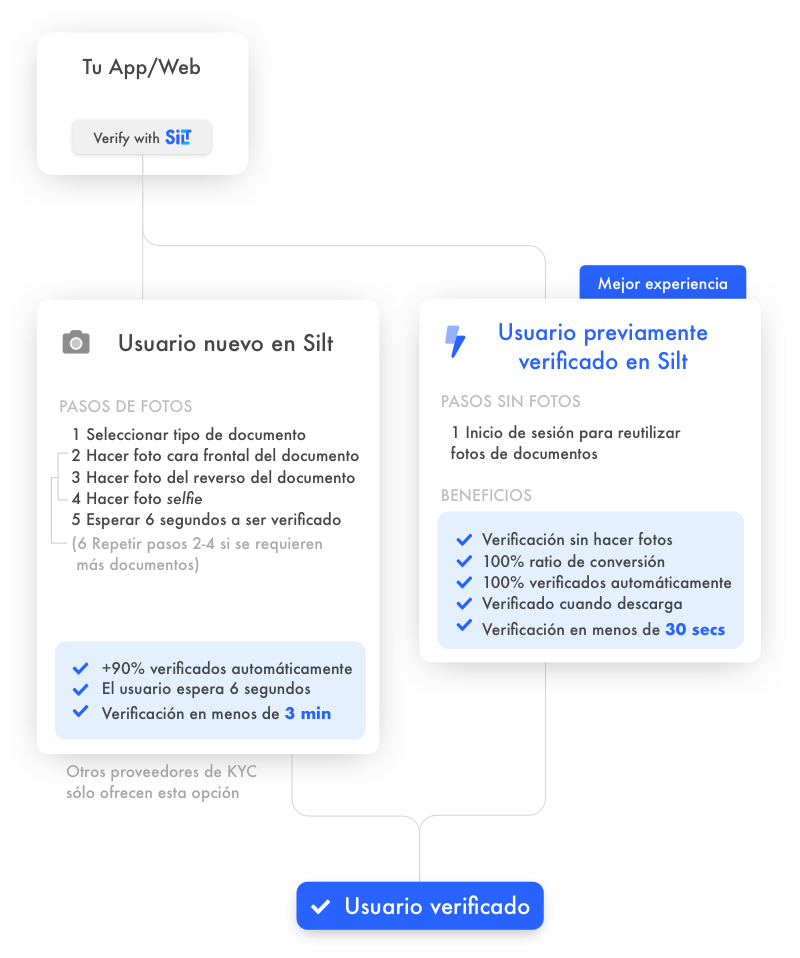
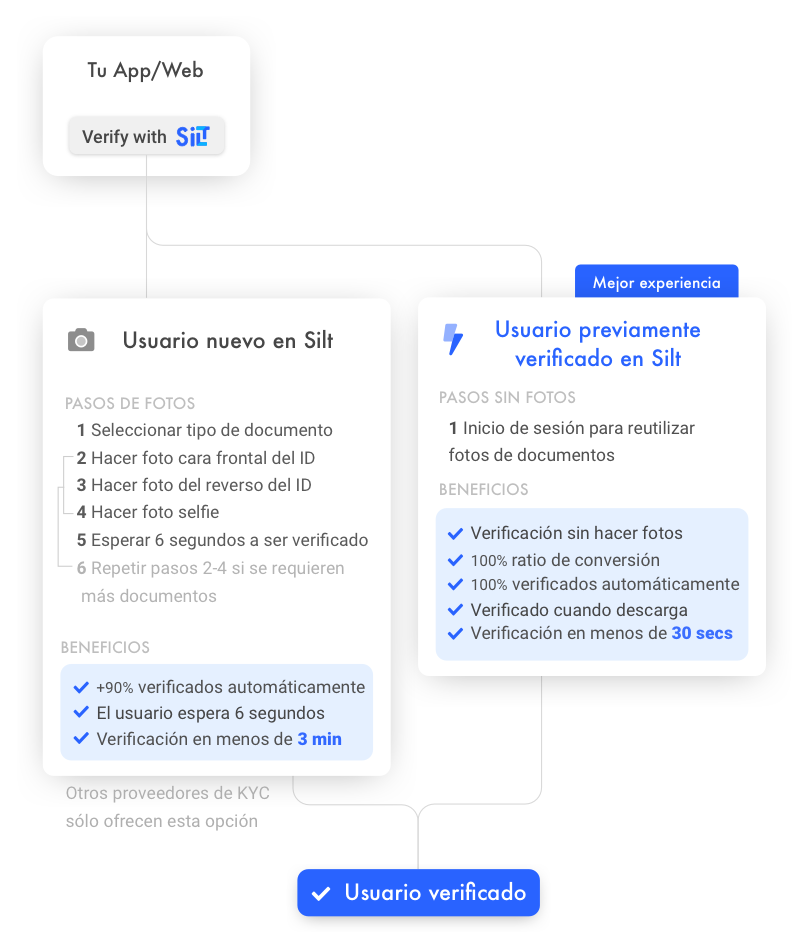
fix resolution and % animation

diff --git a/pages/business.vue b/pages/business.vue
@@ -480,7 +480,7 @@ export default {
         const tl = gsap.timeline({
           scrollTrigger: {
             trigger: section,
-            start: "center bottom",
+            start: "top 80%",
             scrub: false,
             markers: false,
           },
@@ -497,7 +497,7 @@ export default {
         .timeline({
           scrollTrigger: {
             trigger: "#techfeatures .features-container",
-            start: "center bottom",
+            start: "top 80%",
             scrub: false,
             markers: false,
           },
@@ -516,7 +516,7 @@ export default {
         .timeline({
           scrollTrigger: {
             trigger: "#usecases .features-container",
-            start: "center bottom",
+            start: "top 80%",
             scrub: false,
             markers: false,
           },
@@ -535,7 +535,7 @@ export default {
         .timeline({
           scrollTrigger: {
             trigger: "#assistedPictureQualityScreenshots",
-            start: "center bottom",
+            start: "top 80%",
             scrub: false,
             markers: false,
           },

diff --git a/assets/sass/wrappers.sass b/assets/sass/wrappers.sass
@@ -35,7 +35,7 @@ section
 .main-content section, footer section
   max-width: 1400px
   @media (min-width: 768px)
-    padding: 40px 80px
+    padding: 20px
     padding-top: 0
 .fw-container
   width: 100%
